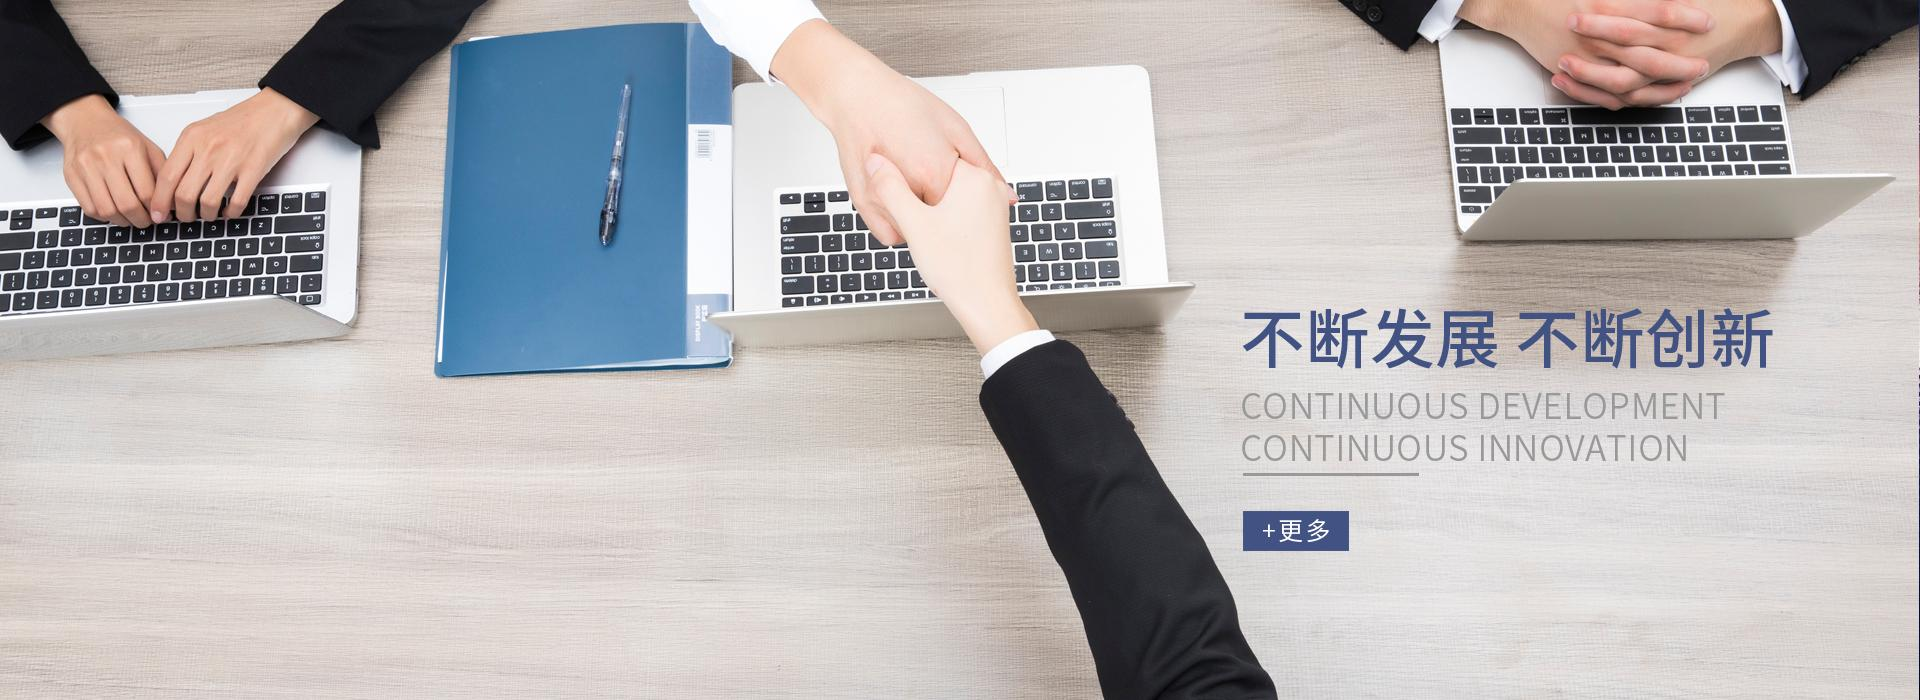
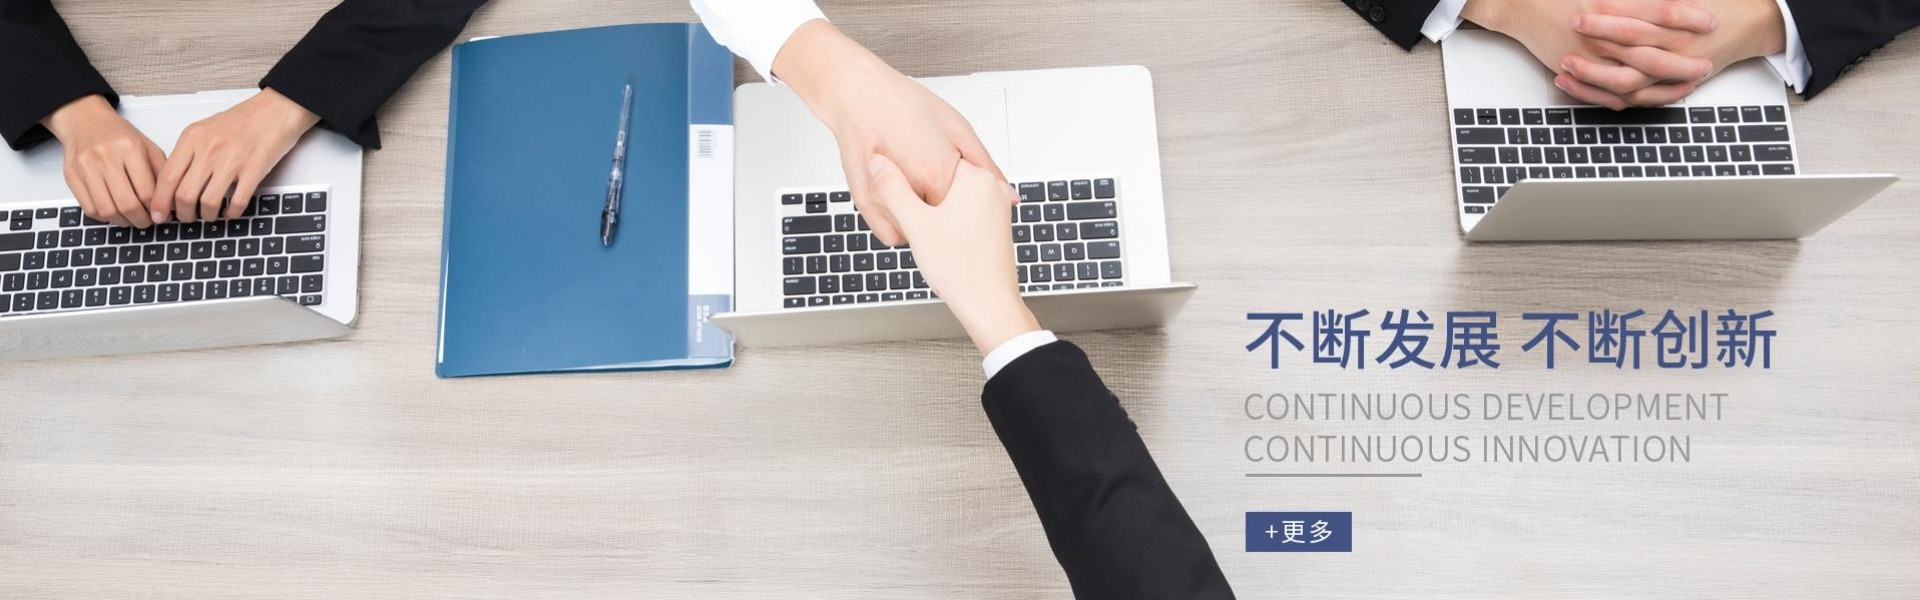
换图

diff --git a/mob/index.html b/mob/index.html
@@ -69,7 +69,7 @@
   </nav>
   <div class="container-box">
     <div class="banner-box">
-      <img src="https://shuchun.oss-cn-shanghai.aliyuncs.com/cdn/static/picture/banner01.jpg" />
+      <img src="https://shuchun.oss-cn-shanghai.aliyuncs.com/cdn/static/picture/about_6.jpeg" />
     </div>
     <div class="about_content">
       <p>》萃领咨询是一家卓越的咨询公司，专注于为企业提供金融服务解决方案。我们提供广泛的财务、税务和合规解决方案，为客户提供从初创阶段到首次公开发行准备期及上市后的全程支持。

diff --git a/mob/en/news.html b/mob/en/news.html
@@ -71,7 +71,7 @@
   </nav>
   <div class="container-box lc-news-container">
     <div class="banner-box">
-      <img class="page3_pic1" src="https://shuchun.oss-cn-shanghai.aliyuncs.com/cdn/static/picture/about_6.jpg" />
+      <img class="page3_pic1" src="https://shuchun.oss-cn-shanghai.aliyuncs.com/cdn/static/picture/about_7.jpg" />
     </div>
     <ul class="news_list_title clearfix">
       <li class="current">Authority Opinions</li>

diff --git a/mob/en/index.html b/mob/en/index.html
@@ -69,7 +69,7 @@
   </nav>
   <div class="container-box">
     <div class="banner-box">
-      <img src="https://shuchun.oss-cn-shanghai.aliyuncs.com/cdn/static/picture/banner01.jpg" />
+      <img src="https://shuchun.oss-cn-shanghai.aliyuncs.com/cdn/static/picture/about_5.jpeg" />
     </div>
     <div class="about_content">
       <p>》Trinity Advisory is a premier consulting practice focused on providing financial service solutions

diff --git a/mob/service.html b/mob/service.html
@@ -65,7 +65,7 @@
 
   <div class="container-box">
     <div class="banner-box">
-      <img class="page3_pic1" src="https://shuchun.oss-cn-shanghai.aliyuncs.com/cdn/static/picture/about_2.jpg" />
+      <img class="page3_pic1" src="https://shuchun.oss-cn-shanghai.aliyuncs.com/cdn/static/picture/about_3.jpg" />
     </div>
     <div class="service-content">
       <h3 style="margin-bottom:10px;">我们的财务咨询服务包括：</h3>

diff --git a/mob/news.html b/mob/news.html
@@ -71,7 +71,7 @@
   </nav>
   <div class="container-box lc-news-container">
     <div class="banner-box">
-      <img class="page3_pic1" src="https://shuchun.oss-cn-shanghai.aliyuncs.com/cdn/static/picture/about_6.jpg" />
+      <img class="page3_pic1" src="https://shuchun.oss-cn-shanghai.aliyuncs.com/cdn/static/picture/about_7.jpg" />
     </div>
     <ul class="news_list_title clearfix">
       <li class="current">监管指南</li>

diff --git a/mob/en/service.html b/mob/en/service.html
@@ -65,7 +65,7 @@
 
   <div class="container-box">
     <div class="banner-box">
-      <img class="page3_pic1" src="https://shuchun.oss-cn-shanghai.aliyuncs.com/cdn/static/picture/about_2.jpg" />
+      <img class="page3_pic1" src="https://shuchun.oss-cn-shanghai.aliyuncs.com/cdn/static/picture/about_3.jpg" />
     </div>
     <div class="service-content">
       <h3 style="margin-bottom:10px;">Our financial advisory services:</h3>

diff --git a/mob/en/job.html b/mob/en/job.html
@@ -69,7 +69,7 @@
   </nav>
   <div class="container-box">
     <div class="banner-box">
-      <img src="https://shuchun.oss-cn-shanghai.aliyuncs.com/cdn/static/picture/about_4.jpg" />
+      <img src="https://shuchun.oss-cn-shanghai.aliyuncs.com/cdn/static/picture/about_6.jpeg" />
     </div>
     <div class="career">
       <div style="font-size: 15px;margin-bottom: 10px;margin-top:20px;">Join the Trinity</div>

diff --git a/contact.html b/contact.html
@@ -46,7 +46,7 @@
   </div>
   <div class="swiper-container" style="margin-top:100px;">
     <div class="banner">
-      <img src="https://shuchun.oss-cn-shanghai.aliyuncs.com/cdn/static/picture/about_1.jpg">
+      <img src="https://shuchun.oss-cn-shanghai.aliyuncs.com/cdn/static/picture/about_7.jpg">
     </div>
   </div>
   <div class="section about-content container-box container" style="padding-top:0px;">

diff --git a/en/contact.html b/en/contact.html
@@ -41,7 +41,7 @@
   </div>
   <div class="swiper-container" style="margin-top:100px;">
     <div class="banner">
-      <img src="https://shuchun.oss-cn-shanghai.aliyuncs.com/cdn/static/picture/about_1.jpg">
+      <img src="https://shuchun.oss-cn-shanghai.aliyuncs.com/cdn/static/picture/about_7.jpg">
     </div>
   </div>
   <div class="section about-content container-box container" style="padding-top:0px;">

diff --git a/mob/team.html b/mob/team.html
@@ -64,7 +64,7 @@
   </nav>
   <div class="container-box">
     <div class="banner-box">
-      <img class="" src="https://shuchun.oss-cn-shanghai.aliyuncs.com/cdn/static/picture/about_5.jpg" />
+      <img class="" src="https://shuchun.oss-cn-shanghai.aliyuncs.com/cdn/static/picture/about_5.jpeg" />
     </div>
     <div class="team-content">
       <h3>专业团队</h3>

diff --git a/mob/en/successful.html b/mob/en/successful.html
@@ -69,7 +69,7 @@
   </nav>
   <div class="container-box">
     <div class="banner-box">
-      <img src="https://shuchun.oss-cn-shanghai.aliyuncs.com/cdn/static/picture/banner02.jpeg" />
+      <img src="https://shuchun.oss-cn-shanghai.aliyuncs.com/cdn/static/picture/about_4.jpg" />
     </div>
     <div class="service-content">
       <div class="service-content-body">

diff --git a/mob/successful.html b/mob/successful.html
@@ -69,7 +69,7 @@
   </nav>
   <div class="container-box">
     <div class="banner-box">
-      <img src="https://shuchun.oss-cn-shanghai.aliyuncs.com/cdn/static/picture/banner02.jpeg" />
+      <img src="https://shuchun.oss-cn-shanghai.aliyuncs.com/cdn/static/picture/about_4.jpg" />
     </div>
     <div class="service-content">
       <div class="service-content-body">
